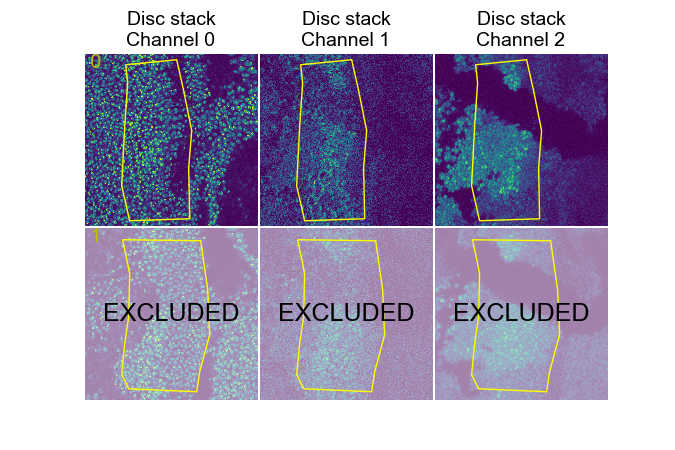
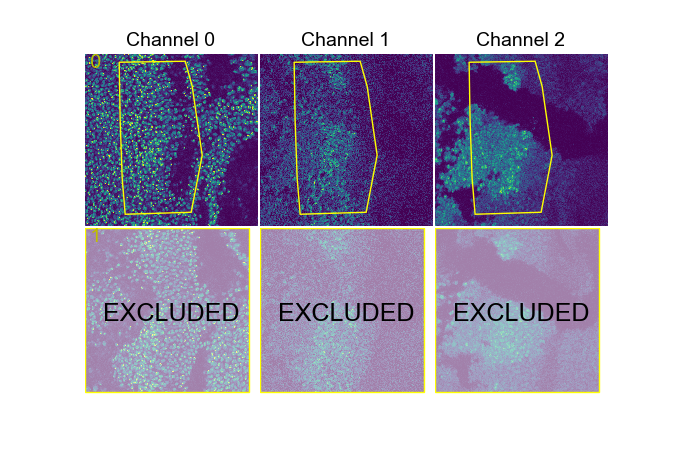
Updated documentation.

diff --git a/docs/source/usage.rst b/docs/source/usage.rst
@@ -96,7 +96,7 @@ Regions of interest are selected by drawing a selection boundary that encloses t
    :align: center
    :alt: example gui
 
-   **Example:** Selection boundary for two layers.
+   **Example:** ROI boundaries for two layers, one of which is excluded.
 
 The GUI offers some basic key commands:
 
